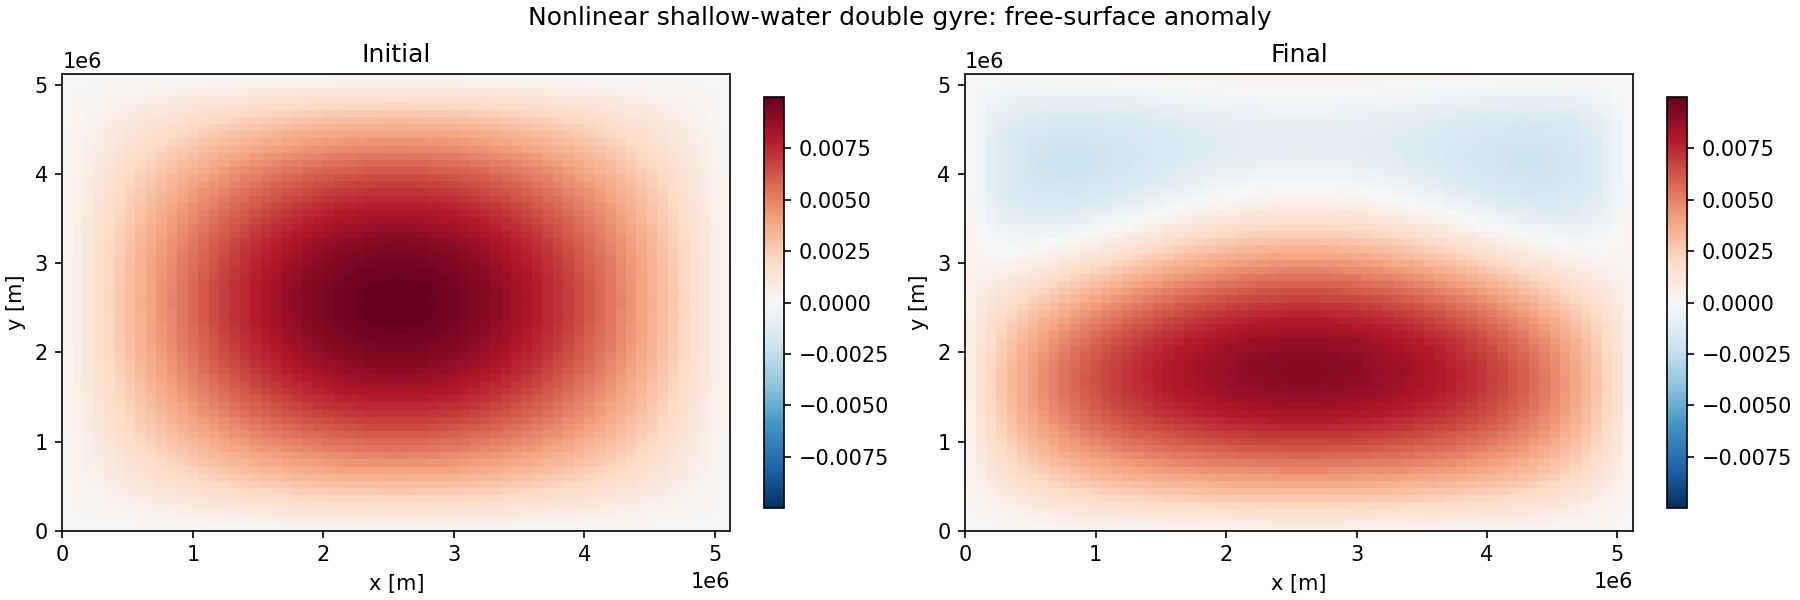
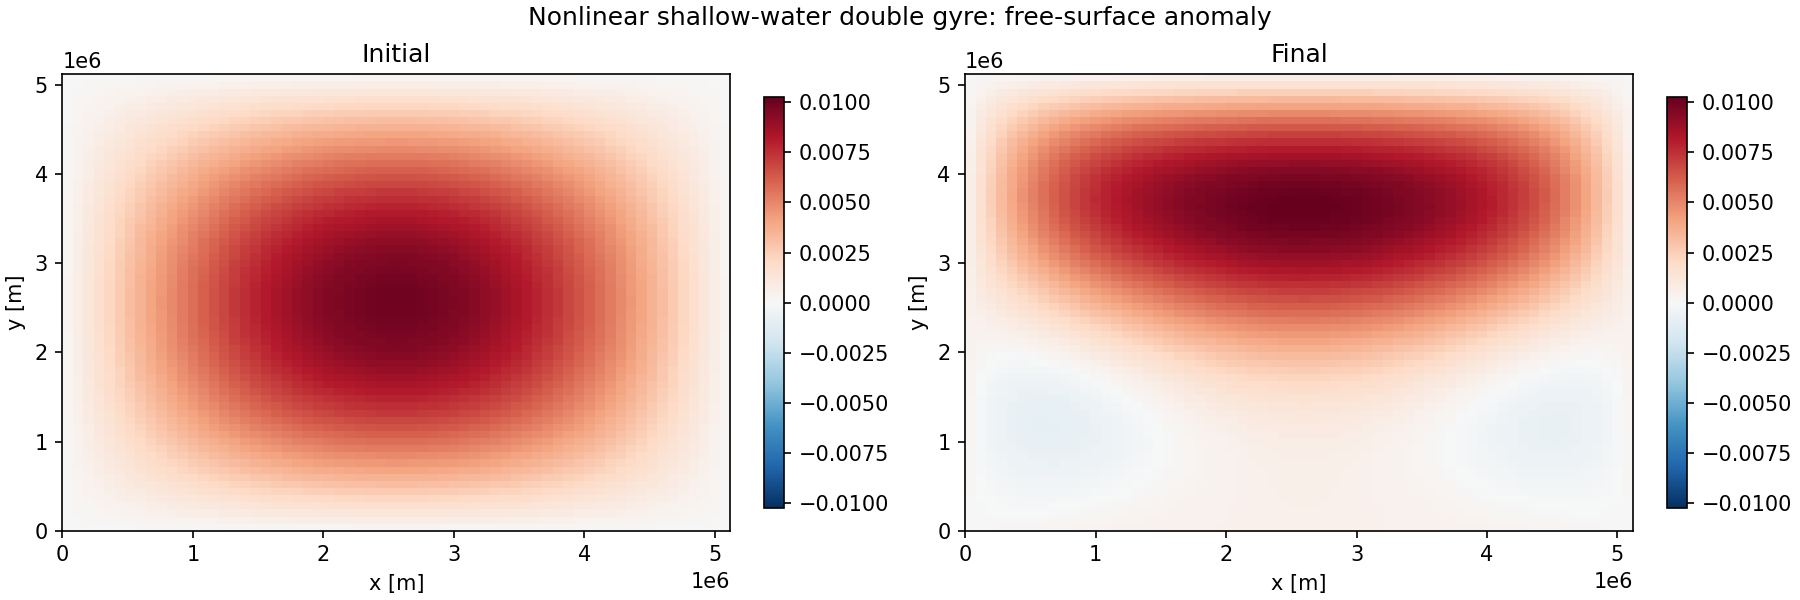
fix: correct wind sign, nonlinear SWM Bernoulli double-counting, and Coriolis staggering
Both shallow-water scripts were producing physically wrong double-gyre
structure (gyres spatially reversed). The nonlinear SWM also had a
Bernoulli formulation error and an unnecessarily diffusive Coriolis
interpolation.

Bug 1 (SIGNIFICANT, both scripts): Wind sign flipped.
  wind_u = -A * cos(2pi*y/Ly)  =>  +A * cos(2pi*y/Ly)
  The negative sign caused positive wind curl in the south (cyclonic)
  and negative curl in the north (anticyclonic), reversing the expected
  subtropical/subpolar double-gyre orientation. The correct sign gives
  curl = -(2piA/Ly)*sin(2piy/Ly): negative in south (anticyclonic,
  subtropical) and positive in north (cyclonic, subpolar), consistent
  with the corrected QG script and MQGeometry benchmark.

Bug 2 (shallow_water.py): Bernoulli double-counts KE gradient.
  Old: -d(g*eta + u^2/2 + v^2/2)/dx - (u.nabla)u
  The term -(u.nabla)u already contains -u*du/dx (the KE gradient x-
  component), so using the full Bernoulli B = g*eta + KE counted it
  twice. Fixed to use only the linear pressure gradient -g*d(eta)/dx
  with the separate advection term (standard advective form).

Bug 3 (shallow_water.py): Coriolis cross-staggering via T-point.
  Old: interp.T_to_U(v_on_T) and interp.T_to_V(u_on_T) (double avg).
  Fixed to interp.V_to_U(v) and interp.U_to_V(u): 4-point bilinear
  cross-face average, consistent with swm_linear.py and more accurate.

Also: regenerate all three docs/images PNGs from the corrected scripts.

diff --git a/scripts/shallow_water.py b/scripts/shallow_water.py
@@ -5,18 +5,21 @@ from __future__ import annotations
 This script modernises the old nonlinear shallow-water example so that it uses the
 current :mod:`finitevolx` API throughout. The model is driven by the same
 double-gyre wind stress pattern as the linear case, but the mass equation uses the
-full layer thickness and the momentum equation includes a compact nonlinear
-Bernoulli/advection closure. ``xarray`` handles the coordinate-aware forcing and
-saved diagnostics, and the sampled fields are written to Zarr instead of being
-shown in a live plot.
+full layer thickness and the momentum equation includes the nonlinear advection
+term. ``xarray`` handles the coordinate-aware forcing and saved diagnostics, and
+the sampled fields are written to Zarr instead of being shown in a live plot.
 
 The nonlinear model integrates
 
-- ∂η/∂t = -∇·((H + η) u⃗) + nu ∇²eta
-- ∂u/∂t = -∂B/∂x - u⃗·∇u + f v - r u + nu ∇²u + Fₓ
-- ∂v/∂t = -∂B/∂y - u⃗·∇v - f u - r v + nu ∇²v
+- d(eta)/dt = -nabla . ((H + eta) * u_vec) + nu * nabla^2(eta)
+- d(u)/dt   = -g * d(eta)/dx - (u_vec . nabla) u + f*v - r*u + nu * nabla^2(u) + F_x
+- d(v)/dt   = -g * d(eta)/dy - (u_vec . nabla) v - f*u - r*v + nu * nabla^2(v)
 
-with the Bernoulli function ``B = g η + 1/2 (u² + v²)``.
+The pressure gradient uses only the linear term ``-g * d(eta)/dx`` (not the full
+Bernoulli function ``B = g*eta + 0.5*(u^2 + v^2)``).  Using the full Bernoulli
+together with the separate ``-(u_vec . nabla) u`` advection term would double-count
+the kinetic energy gradient ``-d(u^2/2)/dx`` that is already included in
+``-(u_vec . nabla) u``.
 
 Examples
 --------
@@ -214,7 +217,11 @@ def make_preprocessing_dataset(
 
     eta0 = 0.01 * np.sin(np.pi * x2d / config.Lx) * np.sin(np.pi * y2d / config.Ly)
     coriolis = config.f0 + config.beta * (y2d - 0.5 * config.Ly)
-    wind_u = -config.wind_acceleration * np.cos(2.0 * np.pi * y2d / config.Ly)
+    # Double-gyre zonal wind body force F_x = A * cos(2*pi*y/Ly).
+    # Wind curl = d(F_x)/dy = -(2*pi*A/Ly) * sin(2*pi*y/Ly):
+    #   y in (0,  Ly/2): curl < 0 -> anticyclonic (subtropical gyre, south) ✓
+    #   y in (Ly/2, Ly): curl > 0 -> cyclonic    (subpolar    gyre, north) ✓
+    wind_u = config.wind_acceleration * np.cos(2.0 * np.pi * y2d / config.Ly)
 
     return xr.Dataset(
         data_vars={
@@ -287,31 +294,44 @@ def run_simulation(config: ShallowWaterConfig | None = None) -> xr.Dataset:  # n
         u_field: Array,
         v_field: Array,
     ) -> tuple[Array, Array, Array]:
-        """Compute the nonlinear shallow-water tendencies on the C-grid."""
+        """Compute the nonlinear shallow-water tendencies on the C-grid.
+
+        Uses the advective form:
+          d(u)/dt = -g*d(eta)/dx - (u_vec.nabla)u + f*v - r*u + nu*nabla^2(u) + F_x
+          d(v)/dt = -g*d(eta)/dy - (u_vec.nabla)v - f*u - r*v + nu*nabla^2(v)
+
+        The pressure gradient uses only the linear term ``-g * d(eta)/dx``.  The
+        kinetic energy is carried entirely by the explicit advection ``-(u.nabla)u``
+        to avoid double-counting the KE gradient that would result from using the
+        full Bernoulli B = g*eta + 0.5*speed^2 together with the advection term.
+        """
         layer_depth = mean_depth + eta_field
         eta_rhs = adv(layer_depth, u_field, v_field, method="upwind1")
         eta_rhs = eta_rhs + viscosity * diff.laplacian(eta_field)
 
         u_on_t = interp.U_to_T(u_field)
         v_on_t = interp.V_to_T(v_field)
-        speed_squared = u_on_t**2 + v_on_t**2
-        bernoulli = gravity * eta_field + 0.5 * speed_squared
 
         du_dx, du_dy = centered_gradients(u_on_t)
         dv_dx, dv_dy = centered_gradients(v_on_t)
         u_adv = interp.T_to_U(u_on_t * du_dx + v_on_t * du_dy)
         v_adv = interp.T_to_V(u_on_t * dv_dx + v_on_t * dv_dy)
 
-        v_on_u = interp.T_to_U(v_on_t)
-        u_on_v = interp.T_to_V(u_on_t)
+        # Coriolis: use the 4-point bilinear cross-face averages V_to_U / U_to_V
+        # directly, rather than routing through T-points (V->T->U double-average).
+        # Direct cross-face interpolation is more accurate (one averaging step)
+        # and consistent with the linear script.
+        v_on_u = interp.V_to_U(v_field)
+        u_on_v = interp.U_to_V(u_field)
         coriolis_on_u = interp.T_to_U(coriolis)
         coriolis_on_v = interp.T_to_V(coriolis)
 
-        u_rhs = -diff.diff_x_T_to_U(bernoulli)
+        # Pressure gradient only (no KE term) — advection handles the rest.
+        u_rhs = -gravity * diff.diff_x_T_to_U(eta_field)
         u_rhs = u_rhs - u_adv + coriolis_on_u * v_on_u + wind_u
         u_rhs = u_rhs - drag * u_field + viscosity * diff.laplacian(u_field)
 
-        v_rhs = -diff.diff_y_T_to_V(bernoulli)
+        v_rhs = -gravity * diff.diff_y_T_to_V(eta_field)
         v_rhs = v_rhs - v_adv - coriolis_on_v * u_on_v
         v_rhs = v_rhs - drag * v_field + viscosity * diff.laplacian(v_field)
         return eta_rhs, u_rhs, v_rhs

diff --git a/scripts/swm_linear.py b/scripts/swm_linear.py
@@ -3,19 +3,21 @@ from __future__ import annotations
 """Linear shallow-water double-gyre example.
 
 This example uses the current :mod:`finitevolx` Arakawa C-grid API to integrate a
-wind-driven linear shallow-water model on a periodic beta-plane. The script uses
-``xarray`` for coordinate-aware preprocessing and postprocessing, writes sampled
-fields to a Zarr store, and saves a static before/after comparison figure.
+wind-driven linear shallow-water model on a beta-plane with periodic BCs. The
+script uses ``xarray`` for coordinate-aware preprocessing and postprocessing,
+writes sampled fields to a Zarr store, and saves a static before/after figure.
 
 The prognostic variables are the free-surface anomaly ``eta`` at T-points and the
 velocity components ``u`` and ``v`` on the C-grid faces. The linearised equations
 are
 
-- ∂η/∂t = -H ∇·u⃗ + nu ∇²eta
-- ∂u/∂t = -g ∂η/∂x + f v - r u + nu ∇²u + Fₓ
-- ∂v/∂t = -g ∂η/∂y - f u - r v + nu ∇²v
+- d(eta)/dt = -H * nabla . u_vec + nu * nabla^2(eta)
+- d(u)/dt   = -g * d(eta)/dx + f*v - r*u + nu * nabla^2(u) + F_x
+- d(v)/dt   = -g * d(eta)/dy - f*u - r*v + nu * nabla^2(v)
 
-where the zonal forcing ``Fₓ`` follows the classic double-gyre wind pattern.
+where the zonal body force ``F_x = A * cos(2*pi*y/Ly)`` follows the standard
+double-gyre wind pattern (anticyclonic/subtropical in the south, cyclonic/subpolar
+in the north).
 
 Examples
 --------
@@ -168,7 +170,11 @@ def make_preprocessing_dataset(
 
     eta0 = 0.01 * np.sin(np.pi * x2d / config.Lx) * np.sin(np.pi * y2d / config.Ly)
     coriolis = config.f0 + config.beta * (y2d - 0.5 * config.Ly)
-    wind_u = -config.wind_acceleration * np.cos(2.0 * np.pi * y2d / config.Ly)
+    # Double-gyre zonal wind body force F_x = A * cos(2*pi*y/Ly).
+    # Wind curl = d(F_x)/dy = -(2*pi*A/Ly) * sin(2*pi*y/Ly):
+    #   y in (0,  Ly/2): curl < 0 -> anticyclonic (subtropical gyre, south) ✓
+    #   y in (Ly/2, Ly): curl > 0 -> cyclonic    (subpolar    gyre, north) ✓
+    wind_u = config.wind_acceleration * np.cos(2.0 * np.pi * y2d / config.Ly)
 
     return xr.Dataset(
         data_vars={
